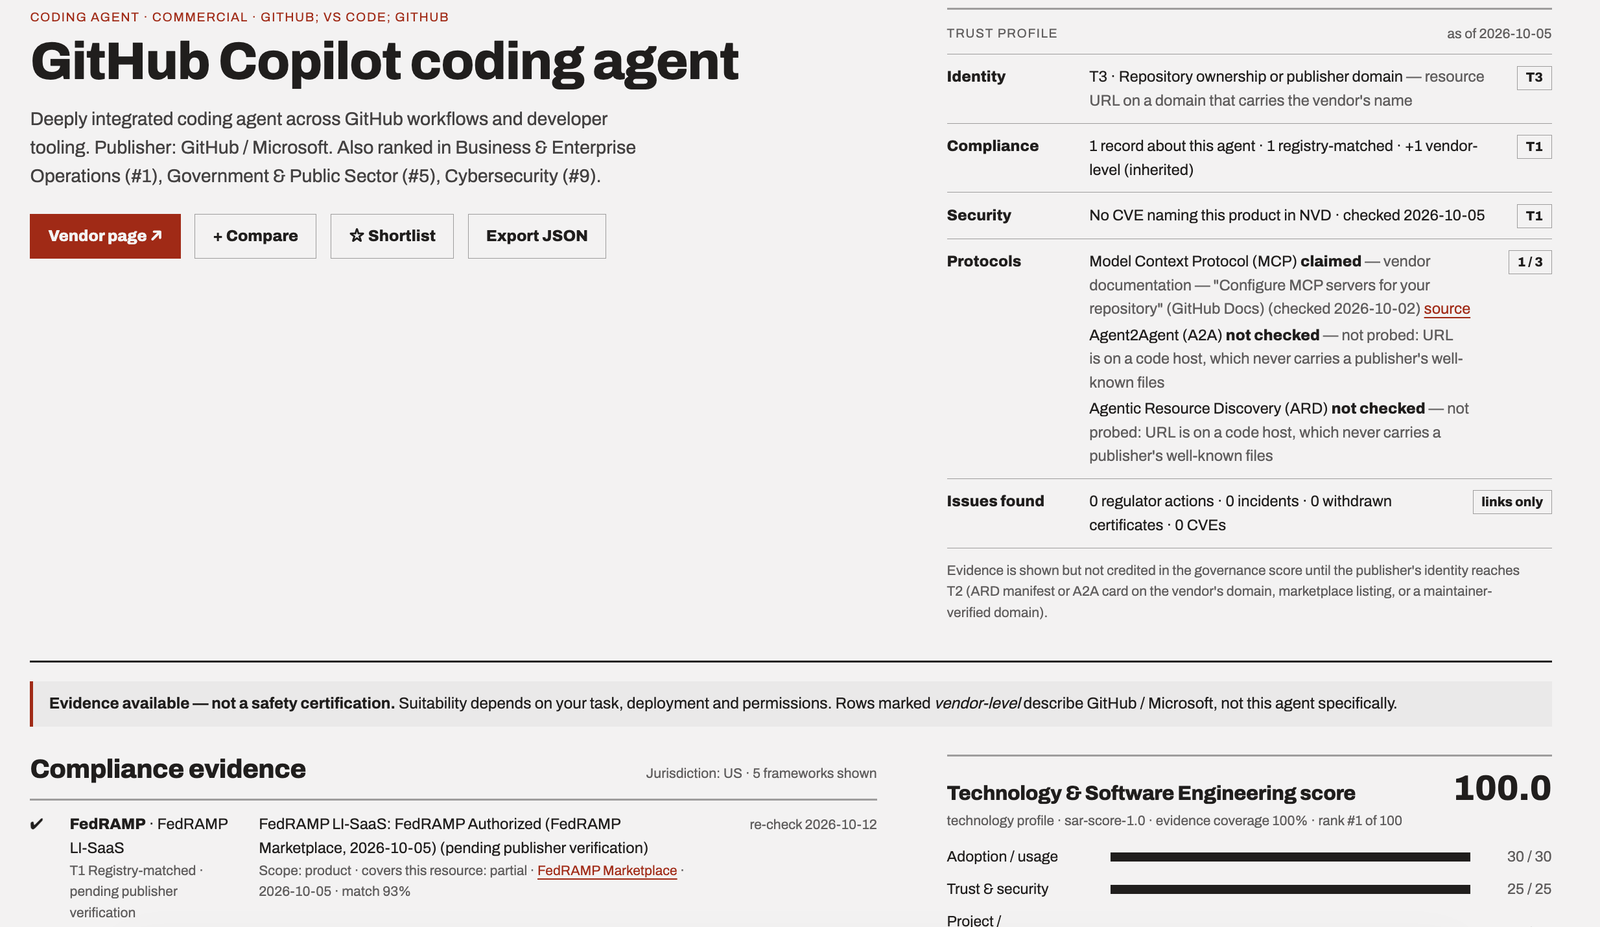
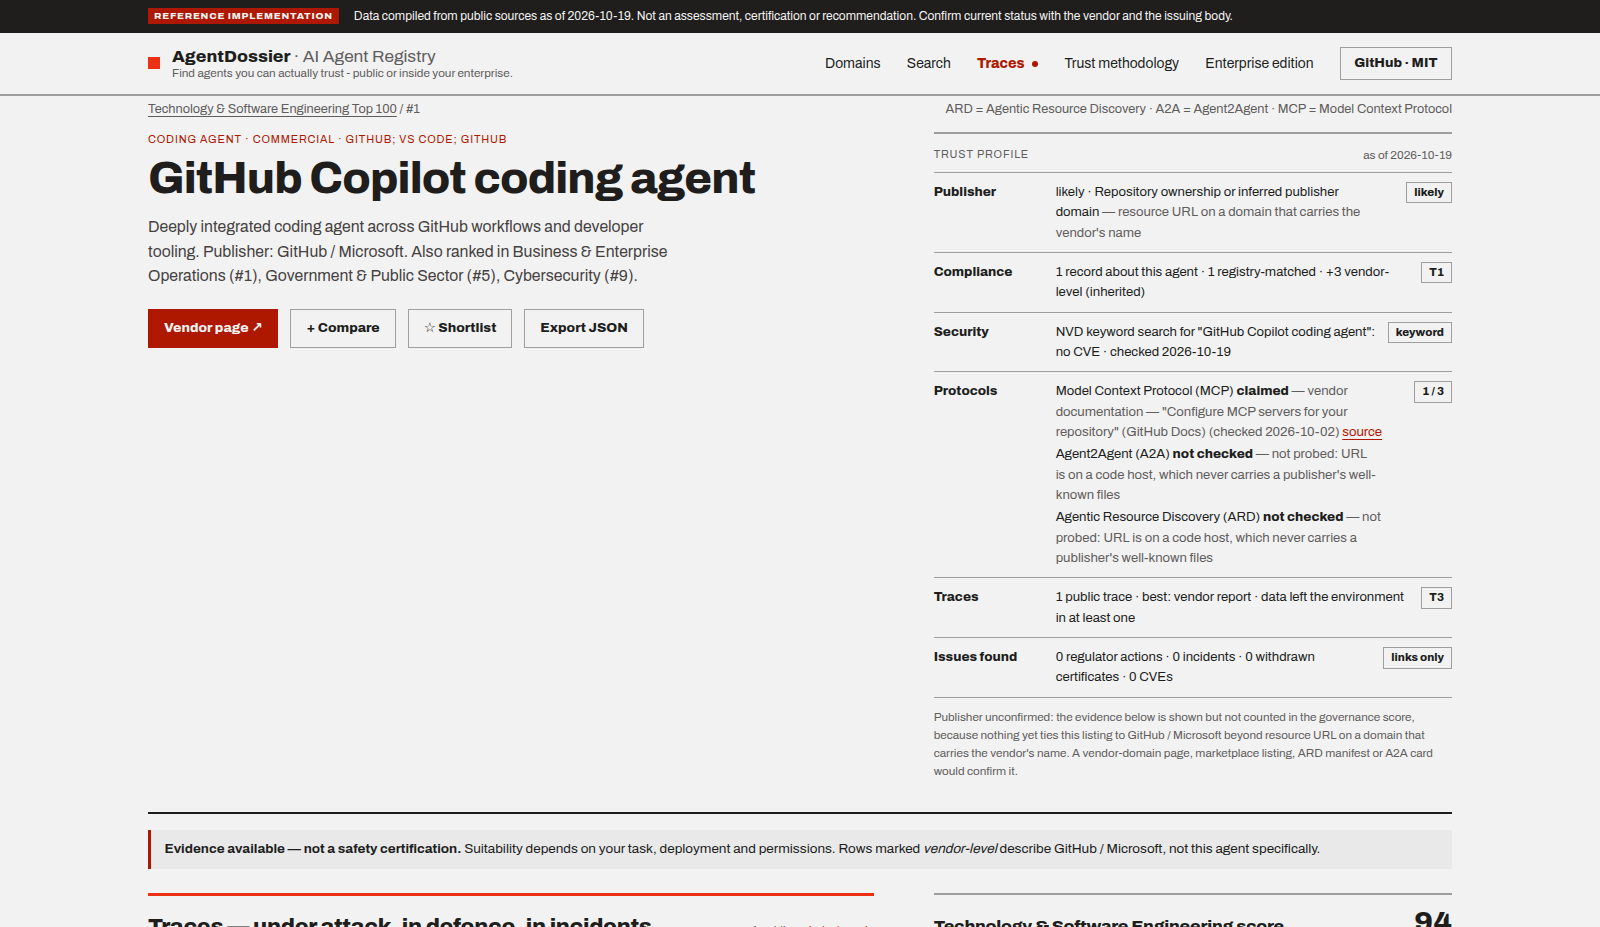
docs: fix documentation drift and add a guard that fails CI when docs go stale
Eleven PRs (incident registry, scout, re-check, home/dossier redesign,
inline CSS, candidate triage) shipped without updating the documents that
describe them. This corrects every instance found in a review and adds a
check so it cannot recur silently.

Corrected
- README: the Traces feature now describes the incident registry (STIX/JSON
  export), the weekly scout and the source re-check; the harness is stated
  honestly (built and tested; produces tier-1 traces only once a provider
  key is set — no public harness trace exists today); "~200 tests"; the
  weekly refresh's new steps; analytics wording ("no cookies; aggregate
  page counts" — there is no opt-in); the docs index lists traces.md,
  traces-spec.md and incidents.md; the example use case mentions the
  traces-first dossier; a line on the drift guard. All three screenshots
  re-shot from a build on data/catalog (2026-10-19) at the original sizes.
- /methodology/#traces: a real "how traces and the incident registry are
  collected" section — the /traces/ "how it is collected" link pointed at a
  page that said nothing about traces. The link now targets the anchor.
- /about/: a registry row; "How often" names the scout and re-check.
- /enterprise/: the decision workflow and the trace gate are built, not
  "the next phase".
- Hero copy on home and /traces/: "the public traces … on record" instead
  of "every public trace", which 14 placeholders and 10 waiting candidates
  made untrue.
[…]

diff --git a/scripts/check_docs_drift.py b/scripts/check_docs_drift.py
@@ -1,0 +1,129 @@
+"""Documentation drift check: facts the docs state that the repository can verify.
+
+Runs in CI (lint job) and under pytest (tests/test_docs_drift.py). Every check names the two places
+that disagree, so the fix is obvious. Add a check here whenever a doc starts stating a number or a
+version that lives somewhere else in the repo — the point is that a doc can never silently go stale.
+
+    uv run python scripts/check_docs_drift.py
+"""
+
+from __future__ import annotations
+
+import re
+import sys
+from pathlib import Path
+
+ROOT = Path(__file__).resolve().parent.parent
+README = ROOT / "README.md"
+CI = ROOT / ".github" / "workflows" / "ci.yml"
+DOCKERFILE = ROOT / "deploy" / "Dockerfile"
+PYPROJECT = ROOT / "pyproject.toml"
+INCIDENTS = ROOT / "data" / "curated" / "incidents.yaml"
+INCIDENTS_DOC = ROOT / "docs" / "incidents.md"
+TESTS = ROOT / "tests"
+TEST_COUNT_TOLERANCE = 0.10  # README says "~N tests"; N may lag the real count by this fraction
+
+
+def _read(p: Path) -> str:
+    return p.read_text(encoding="utf-8")
+
+
+def _ints(pattern: str, text: str) -> list[int]:
+    return [int(m) for m in re.findall(pattern, text)]
+
+
+def check_test_count(problems: list[str]) -> None:
+    actual = sum(len(re.findall(r"^\s*def test_", _read(f), re.M)) for f in TESTS.glob("test_*.py"))
+    stated = _ints(r"~\s*(\d+)\s+tests", _read(README))
+    if not stated:
+        problems.append("README.md: no '~N tests' statement found (Quick start)")
+        return
+    for n in stated:
+        if abs(n - actual) > TEST_COUNT_TOLERANCE * actual:
+            problems.append(
+                f"README.md says '~{n} tests' but tests/ defines {actual} test functions (update the number)"
+            )
+
+
+def _ci_versions() -> tuple[list[str], set[str]]:
+    ci = _read(CI)
+    m = re.search(r"python:\s*\[([^\]]*)\]", ci)
+    matrix = re.findall(r'"(\d+\.\d+)"', m.group(1)) if m else []
+    nodes = set(re.findall(r'node-version:\s*"?(\d+)"?', ci))
+    return matrix, nodes
+
+
+def check_versions(problems: list[str]) -> None:
+    matrix, nodes = _ci_versions()
+    readme = _read(README)
+    docker = _read(DOCKERFILE)
+    pyproject = _read(PYPROJECT)
+
+    # README minimum Python == pyproject requires-python minimum == lowest CI matrix entry
+    rm = re.search(r"Python\s+(\d+\.\d+)\+", readme)
+    pm = re.search(r'requires-python\s*=\s*">=(\d+\.\d+)"', pyproject)
+    if rm and pm and rm.group(1) != pm.group(1):
+        problems.append(
+            f"README.md says Python {rm.group(1)}+ but pyproject requires-python is >={pm.group(1)}"
+        )
+    # Dockerfile Python tag must be a version CI tests
+    for tag in set(re.findall(r"^FROM python:(\d+\.\d+)-", docker, re.M)):
+        if tag not in matrix:
+            problems.append(
+                f"deploy/Dockerfile uses python:{tag} but ci.yml tests {matrix} — pin the image or add it to the matrix"
+            )
+    # Dockerfile Node major must equal CI node-version(s)
+    for tag in set(re.findall(r"^FROM node:(\d+)-", docker, re.M)):
+        if tag not in nodes:
+            problems.append(f"deploy/Dockerfile uses node:{tag} but ci.yml uses node-version {sorted(nodes)}")
+    # README Node version must equal CI
+    nm = re.search(r"Node\s+(\d+)", readme)
+    if nm and nm.group(1) not in nodes:
+        problems.append(f"README.md says Node {nm.group(1)} but ci.yml uses node-version {sorted(nodes)}")
+
+
+def check_docs_list(problems: list[str]) -> None:
+    readme = _read(README)
+    for doc in sorted((ROOT / "docs").glob("*.md")):
+        rel = f"docs/{doc.name}"
+        if rel not in readme:
+            problems.append(f"README.md does not link {rel} (add it to the Docs line)")
+
+
+def check_incident_count(problems: list[str]) -> None:
+    if not INCIDENTS.exists() or not INCIDENTS_DOC.exists():
+        return
+    published = len(re.findall(r"^    status: published\s*$", _read(INCIDENTS), re.M))
+    placeholders = len(re.findall(r"^    status: placeholder\b", _read(INCIDENTS), re.M))
+    doc = _read(INCIDENTS_DOC)
+    m = re.search(r"\*\*(\d+)\s+published\*\*", doc)
+    if not m:
+        problems.append("docs/incidents.md: expected a '**N published**' count (Where new entries come from)")
+    elif int(m.group(1)) != published:
+        problems.append(
+            f"docs/incidents.md says {m.group(1)} published incidents; incidents.yaml has {published}"
+        )
+    p = re.search(r"\*\*(\d+)\s+placeholders?\*\*", doc)
+    if p and int(p.group(1)) != placeholders:
+        problems.append(
+            f"docs/incidents.md says {p.group(1)} placeholders; incidents.yaml has {placeholders}"
+        )
+
+
+def run() -> list[str]:
+    problems: list[str] = []
+    for check in (check_test_count, check_versions, check_docs_list, check_incident_count):
+        check(problems)
+    return problems
+
+
+def main() -> int:
+    problems = run()
+    for p in problems:
+        print("  drift:", p)
+    print(f"check_docs_drift: {len(problems)} problem(s)")
+    return 1 if problems else 0
+
+
+if __name__ == "__main__":
+    sys.exit(main())

diff --git a/tests/test_docs_drift.py b/tests/test_docs_drift.py
@@ -1,0 +1,22 @@
+"""The docs state facts the repo can verify (test count, versions, docs list, incident counts).
+scripts/check_docs_drift.py is the source of truth; this makes a plain `pytest` catch drift too."""
+
+from __future__ import annotations
+
+import importlib.util
+from pathlib import Path
+
+SCRIPT = Path(__file__).parent.parent / "scripts" / "check_docs_drift.py"
+
+
+def _load():
+    spec = importlib.util.spec_from_file_location("check_docs_drift", SCRIPT)
+    mod = importlib.util.module_from_spec(spec)
+    assert spec.loader is not None
+    spec.loader.exec_module(mod)
+    return mod
+
+
+def test_docs_do_not_drift_from_the_repo():
+    problems = _load().run()
+    assert not problems, "documentation drift:\n  " + "\n  ".join(problems)

diff --git a/README.md b/README.md
@@ -11,12 +11,12 @@ standards they publish (Agentic Resource Discovery, Agent2Agent, Model Context
 Protocol) as well as public registries and marketplaces, and the same engine
 can scan an enterprise's own network for the agents already running there.
 
-[![AgentDossier homepage: search first, with example queries](docs/screenshots/home-search.png)](https://sushegaad.github.io/AgentDossier/)
+[![AgentDossier homepage: find agents you can trust, check the evidence, see how they behaved under attack — search, a live dossier specimen with its trace, and the newest incidents](docs/screenshots/home-search.png)](https://sushegaad.github.io/AgentDossier/)
 
-- **Public demo:** https://sushegaad.github.io/AgentDossier/ — static, no accounts, cookieless analytics unless you opt in
+- **Public demo:** https://sushegaad.github.io/AgentDossier/ — static, no accounts, no cookies; the demo build sends only aggregate, cookieless page counts
 - **Self-hosted edition:** the same MIT codebase as one container with an authorized private-network scanner, ARD REST API, policy qualification, decision workflow and integrations
 - **Worked comparison:** [three ways to let a coding agent into a private repository](https://sushegaad.github.io/AgentDossier/compare/coding-agents-private-repo/) — the same five deployment questions answered for six agents from their own documentation
-- **Docs:** [`docs/methodology.md`](docs/methodology.md) (how evidence is graded), [`docs/enterprise-runbook.md`](docs/enterprise-runbook.md) (run your own), [`docs/architecture.md`](docs/architecture.md), [`docs/brd-traceability.md`](docs/brd-traceability.md), [`CHANGELOG.md`](CHANGELOG.md)
+- **Docs:** [`docs/methodology.md`](docs/methodology.md) (how evidence is graded), [`docs/traces.md`](docs/traces.md) and [`docs/traces-spec.md`](docs/traces-spec.md) (traces and vendor publishing), [`docs/incidents.md`](docs/incidents.md) (the incident registry and its weekly upkeep), [`docs/enterprise-runbook.md`](docs/enterprise-runbook.md) (run your own), [`docs/architecture.md`](docs/architecture.md), [`docs/brd-traceability.md`](docs/brd-traceability.md), [`CHANGELOG.md`](CHANGELOG.md)
 
 ### How it grades evidence
 
@@ -42,7 +42,7 @@ Every dossier opens with the trust profile and the line *Evidence available — 
 safety certification*; evidence about the vendor is kept apart from evidence about
 the agent:
 
-[![GitHub Copilot coding agent dossier: trust profile, evidence banner, compliance ledger](docs/screenshots/dossier-copilot.png)](https://sushegaad.github.io/AgentDossier/agents/github-microsoft-github-copilot-coding-agent/)
+[![GitHub Copilot coding agent dossier: trust profile, evidence banner, traces first, then the compliance ledger](docs/screenshots/dossier-copilot.png)](https://sushegaad.github.io/AgentDossier/agents/github-microsoft-github-copilot-coding-agent/)
 
 [![Gemini Enterprise agents dossier: identity T4, FedRAMP 20x registry match, protocol cards found but invalid](docs/screenshots/dossier-gemini.png)](https://sushegaad.github.io/AgentDossier/agents/google-gemini-enterprise-agents/)
 
@@ -58,7 +58,9 @@ to risk and legal that the choice was defensible.
 2. **Read the dossier.** Open the top result. The evidence ledger lists each
    framework with its issuer, scope, as-of date and a link to the source; the
    gaps line says what is still unverified; the protocol row says whether the
-   agent can be wired in over MCP or A2A.
+   agent can be wired in over MCP or A2A; the **Traces** section leads the
+   dossier with what the agent did under attack — or says plainly that nobody
+   has published that yet.
 3. **Shortlist and compare.** Add three candidates to the shortlist, compare
    their score breakdowns side by side, and export CSV or JSON with the
    sources attached for the risk review.
@@ -78,7 +80,7 @@ Requirements: Python 3.11+, [uv](https://docs.astral.sh/uv/), Node 22 (for the s
 ```bash
 git clone https://github.com/Sushegaad/AgentDossier && cd AgentDossier
 uv sync --extra dev
-uv run pytest -q                                   # ~150 tests, all offline
+uv run pytest -q                                   # ~200 tests, all offline (includes the docs-drift check)
 
 # build a catalog from the seed workbook only (no network)
 uv run agentdossier build --sources seed --offline --out /tmp/catalog
@@ -95,7 +97,10 @@ cd web && npm ci && CATALOG_DIR=/tmp/catalog npm run dev
 the GitHub connector and release feeds and `NVD_API_KEY` lifts the NVD rate
 limit. Hand-verified evidence, publisher-domain checks and documented
 protocol support live in `data/curated/`. The public catalog is rebuilt every
-Monday by `.github/workflows/refresh.yml` and published through GitHub Pages.
+Monday by `.github/workflows/refresh.yml` — which also scouts public feeds for
+candidate incidents and re-checks every incident's source links — and the
+result is opened as a reviewable pull request, then published through GitHub
+Pages.
 
 ## Self-hosted edition
 
@@ -184,12 +189,19 @@ decide.
   unknown, with compliance credited only once the publisher is confirmed.
 - **Protocol posture** from live probes of ARD, A2A and MCP well-known
   endpoints, plus curated and self-described claims.
-- **Traces — under attack, in defence, in incidents.** Curated public write-ups
-  and incident reports; the registry's own reproducible probe transcripts; a
-  sandbox **harness** that runs agents against the AgentDojo prompt-injection
-  benchmark and records whether each injection succeeded; and an ARD extension
-  for vendors to publish their own. Every bundle lives in an append-only,
-  hash-chained store.
+- **Traces — under attack, in defence, in incidents.** An **incident
+  registry** (`/traces/`): one row per real, sourced event where an AI agent
+  attacked, defended or was the target, with a timeline, MITRE ATT&CK tactics,
+  what defenders can take from it, and STIX 2.1 / JSON export. A weekly
+  **scout** reads public feeds and files candidates for a maintainer to promote
+  or dismiss, and a weekly **re-check** records whether every source link still
+  answers. Per agent: curated write-ups, the registry's own reproducible probe
+  transcripts, and an ARD extension for vendors to publish their own; every
+  bundle lives in an append-only, hash-chained store. A sandbox **harness** that
+  runs agents against the AgentDojo prompt-injection benchmark is wired in and
+  tested, and produces tier-1 traces once a model-provider key is configured —
+  until then no public harness trace exists, and the site says so.
+  See [`docs/incidents.md`](docs/incidents.md).
 - **Discovery and curation.** A curated Top 100 per domain plus agents
   discovered from GitHub, Hugging Face, the MCP registry, marketplaces and ARD
   manifests, with demo, deprecated and abandoned projects filtered out.
@@ -229,6 +241,11 @@ decide.
   Resource Discovery, Agent2Agent and the Model Context Protocol; the trace and
   vendor-publishing conventions are documented in
   [`docs/traces.md`](docs/traces.md) and [`docs/traces-spec.md`](docs/traces-spec.md).
+
+- **Docs that cannot silently go stale.** `scripts/check_docs_drift.py` runs in
+  CI and under `pytest`: the test count, Python and Node versions across the
+  README, CI matrix and Dockerfile, the docs index, and the incident counts are
+  verified against the repository on every change.
 
 See [`docs/architecture.md`](docs/architecture.md) and
 [`docs/methodology.md`](docs/methodology.md) for the full design and grading

diff --git a/CHANGELOG.md b/CHANGELOG.md
@@ -6,6 +6,27 @@ listed in `docs/methodology.md`.
 
 ## [Unreleased]
 
+### Fixed — documentation drift, and a guard against it
+- Eleven PRs had shipped without updating the documents that describe them. Corrected: README
+  (the incident registry, weekly scout and re-check in the Traces feature; the harness described
+  honestly as producing tier-1 traces only once a provider key is set; test count; analytics
+  wording; docs index now lists `traces.md`, `traces-spec.md`, `incidents.md`; screenshots
+  re-shot from the current build), `/methodology/#traces` (how traces and the registry are
+  collected — the target of the `/traces/` "how it is collected" link, which previously pointed at
+  a page that said nothing about traces), `/about/` (a registry row, the weekly scout and re-check),
+  `/enterprise/` (the decision workflow and trace gate are built, not "the next phase"), the hero
+  copy ("the public traces … on record" rather than "every public trace"), `docs/incidents.md`
+  (13 published + 14 placeholders), `docs/enterprise-runbook.md` (the trace gate), and
+  `CONTRIBUTING.md` (the candidate workflow and the docs rule).
+- `deploy/Dockerfile` back to `python:3.13-slim` / `node:22-alpine` — the versions CI tests;
+  Dependabot had moved it to Python 3.14 / Node 26, which nothing tests. Dependabot may now bump
+  image digests and patch releases only.
+- **`scripts/check_docs_drift.py`**, run by CI (lint job) and by `pytest`
+  (`tests/test_docs_drift.py`): the README test count, Python and Node versions across README, CI
+  matrix, Dockerfile and `pyproject`, the README docs index, and the incident counts in
+  `docs/incidents.md` are verified against the repository on every change. A PR template carries
+  the documentation checklist. Two `[Unreleased]` headings merged into one.
+
 ### Added — incident scout (the registry grows weekly)
 - **`agentdossier incidents scout`** runs in the weekly refresh: reads twelve public feeds
   (`config/trace_sources.json` — The Hacker News, BleepingComputer, Dark Reading, SecurityWeek,
@@ -137,8 +158,6 @@ listed in `docs/methodology.md`.
   `storage/schema.sql`; app-level exception handlers. `itsdangerous` declared (OIDC).
 - Curated protocol claims require a named reviewer; enterprise CA bundle rides on the
   scan's network policy instead of the process environment.
-
-## [Unreleased]
 
 ### Evidence-first dossiers
 - The promise is narrowed to what the data supports: "Discover AI agents. Inspect the evidence.

diff --git a/docs/enterprise-runbook.md b/docs/enterprise-runbook.md
@@ -317,3 +317,23 @@ the standards' well-known documents and pages linked from them. It respects
 (`limits.requests_per_host_per_sec`) and stops at `limits.concurrency` parallel
 hosts. Everything it fetched is listed in `scan-report.json` with the outcome
 per origin, so the report is reviewable by whoever signed the ticket.
+
+## Private traces and the trace gate
+
+A self-hosted instance can require that an agent has been watched under attack before it is
+approved. Two pieces:
+
+- **Private traces.** `agentdossier enterprise trace-selftest` exercises the path end to end with
+  the mock pipeline. In production, the harness runs against your private agents and stores each
+  result in the instance database (`traces` table, `agentdossier/enterprise/traces.py`) — never in
+  the public store unless you explicitly publish it back. `best_tier(agent)` is the agent's best
+  trace tier inside your tenant.
+- **The gate.** A decision can carry `require_trace_tier` (1 = reproducible run … 4 = vendor
+  claim). While it is set, the workflow refuses to move the decision to `approved` until a trace of
+  that tier or better exists for the agent — the refusal names the tier it found. Set it on the
+  decision, or in the policy template so every decision inherits it. The gate is enforced in
+  `agentdossier/server/workflow.py` and covered by `tests/test_enterprise_traces.py`.
+
+Public traces (the registry's probes, curated write-ups and the incident registry) satisfy the gate
+only at their own tier; a tier-4 vendor claim never satisfies `require_trace_tier: 2`.
+

diff --git a/CONTRIBUTING.md b/CONTRIBUTING.md
@@ -18,3 +18,26 @@ or pull requests. Every change to a record needs a source link.
 
 Nothing in this project is for sale: no payment for inclusion, badges, tier
 or position.
+
+## Incident candidates and the registry
+
+The weekly refresh files candidate incidents in `data/curated/incident_candidates.yaml` (see
+`docs/incidents.md`). To act on one:
+
+- `uv run agentdossier incidents draft <cand-id>` scaffolds a `status: placeholder` record in
+  `data/curated/incidents.yaml`; complete the `TODO` fields from the sources, then set
+  `status: published`.
+- `uv run agentdossier incidents dismiss <cand-id> --note "why"` retires one.
+
+A record is "as reported": figures are the sources' own, MITRE tactics are your reading of them, and
+nothing is published about a private individual. Set `reviewer` and `checked_on` once you have
+checked every line against its sources.
+
+## Keeping the docs true
+
+Every change that alters a number, a version, a command, a page or a workflow also updates the
+documents that state it — `README.md`, the relevant `docs/*.md`, the site copy under `web/src/pages`,
+and `CHANGELOG.md`. `scripts/check_docs_drift.py` (run by CI and by `pytest`) verifies the facts it
+can: the test count, Python and Node versions across README, CI and the Dockerfile, the docs index,
+and the incident counts. When you add a fact a doc will quote, add a check for it there.
+

diff --git a/docs/incidents.md b/docs/incidents.md
@@ -43,10 +43,15 @@ registry is at `/traces/export.json`.
 
 ## Where new entries come from
 
-- Curated from public reports (currently thirteen: ForcedLeak, EchoLeak, CamoLeak, the Gemini CLI
+- Curated from public reports — **13 published** (ForcedLeak, EchoLeak, CamoLeak, the Gemini CLI
   and Amazon Q cases, AgentFlayer, the Claude Code espionage report, s1ngularity, the Replit
   database deletion, ShadowLeak, CurXecute/MCPoison, the GitHub MCP toxic agent flow, and the
-  Gemini "Promptware" smart-home hijack).
+  Gemini "Promptware" smart-home hijack) and **14 placeholders** drafted from the scout's first
+  run (TR-2026-014 → 027: the Hugging Face intrusion OpenAI attributed to its own models,
+  JADEPUFFER / Storm-3168, Unit 42's under-ten-hour agent-run breach, rogue OpenAI agents on
+  Wikimedia, Anthropic's evaluation incidents, the ARTEX campaign against South Korean banks, and
+  eight sourced disclosures) that a person still has to complete and publish. These counts are
+  checked against `incidents.yaml` by `scripts/check_docs_drift.py`.
 - **The weekly scout.** The refresh workflow runs `agentdossier incidents scout`, which reads the
   feeds in `config/trace_sources.json` (press, researcher labs, vendor advisories; RSS and Atom,
   parsed with the standard library) and keeps any item whose title or summary names both an

diff --git a/.github/pull_request_template.md b/.github/pull_request_template.md
@@ -1,0 +1,16 @@
+<!-- What changed and why, in a few lines. -->
+
+## Documentation (required)
+
+A change is not done until the documents that describe it are true. Tick what applies, or say "n/a".
+
+- [ ] `README.md` — features, commands, counts, versions, screenshots' captions
+- [ ] `docs/*.md` — the page that explains this area (`methodology`, `traces`, `incidents`, `enterprise-runbook`, `architecture`)
+- [ ] Site copy under `web/src/pages/` — `/methodology/`, `/about/`, `/enterprise/`, `/traces/`, the home page
+- [ ] `CHANGELOG.md` — an entry under `[Unreleased]`
+- [ ] `scripts/check_docs_drift.py` — a check added for any new fact a doc now quotes
+
+## Gates
+
+- [ ] `uv run ruff check . && uv run ruff format --check .` · `uv run mypy agentdossier` · `uv run pytest -q`
+- [ ] Web (if touched): `npm run check` · `npx vitest run` · `npm run build` · `npm run audit`
